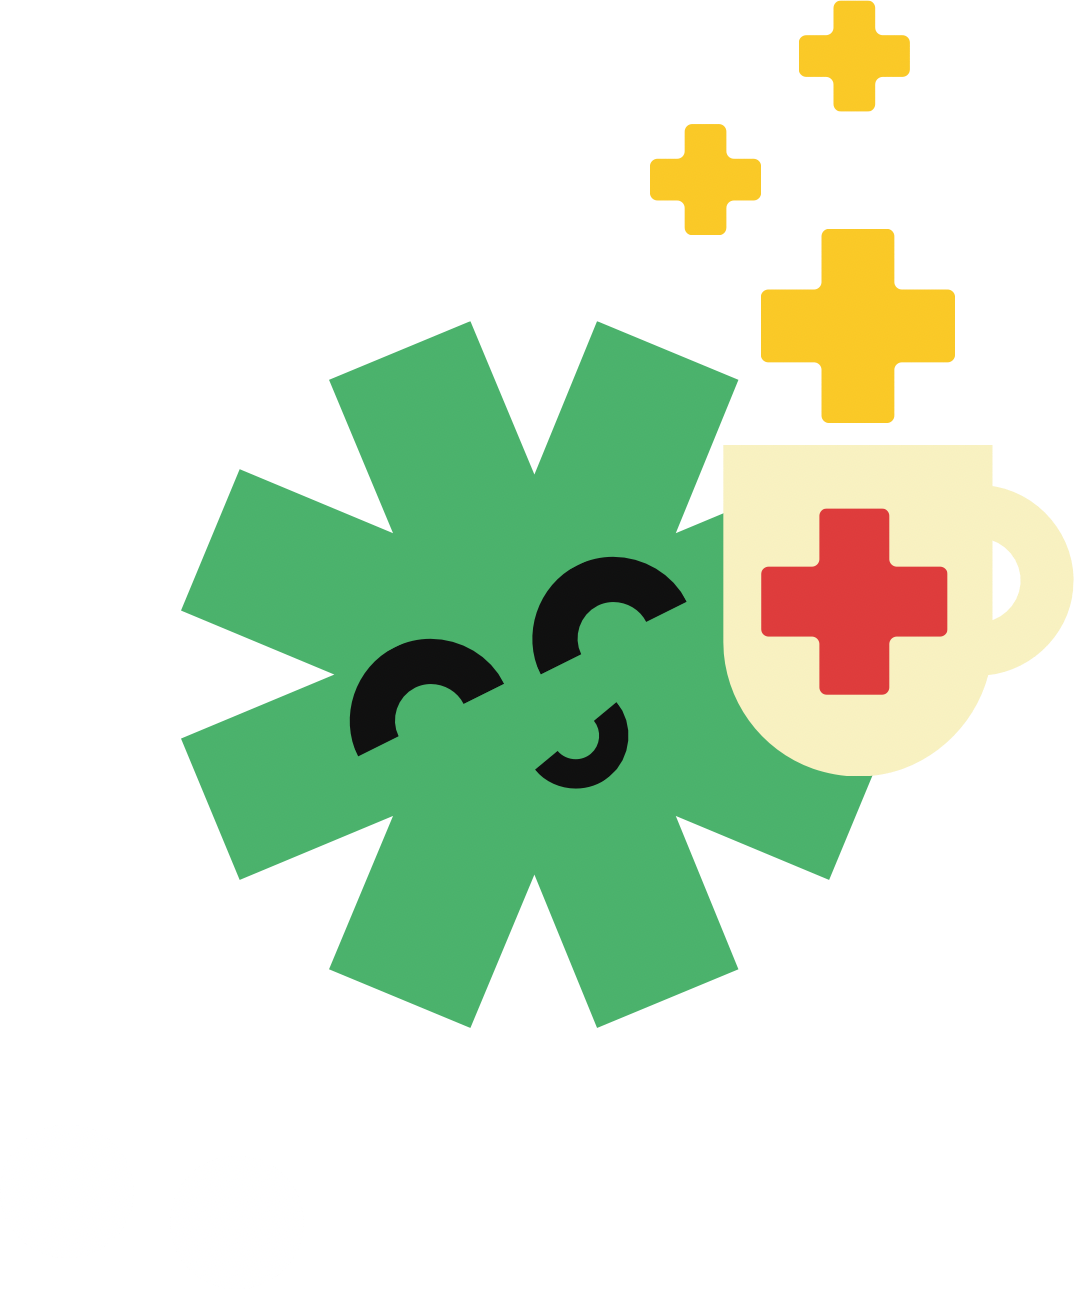
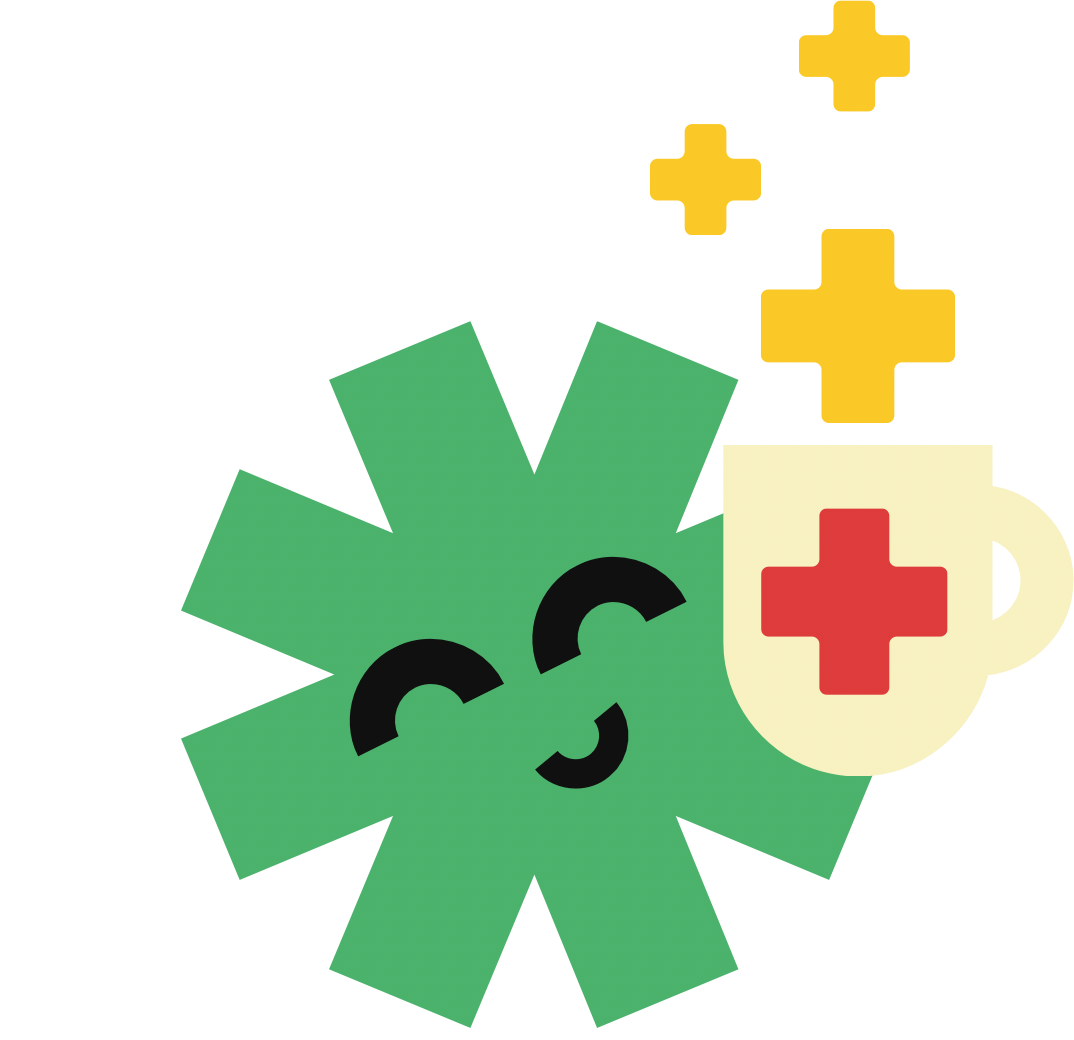
Scale up characters, roomy margins, characters below checklist on mobile, crop asterisk tea image, remove briefcase from diagnosis

Changed region(s): [[0.1536, 0.1538, 1.0, 0.9846], [0.5838, 0.0923, 0.7067, 0.2462], [0.7374, 0.0308, 0.8603, 0.1231]]

diff --git a/docs/index.html b/docs/index.html
@@ -53,7 +53,7 @@ a{ color:inherit; }
 .wrap{
   max-width: 1180px;
   margin: 0 auto;
-  padding: 0 32px;
+  padding: 0 60px;
 }
 
 .eyebrow{
@@ -302,14 +302,14 @@ h1,h2,h3{
   flex-direction: column;
   align-items: center;
   width: 50%;
-  height: 300px; /* explicit height = baseline anchor */
+  height: 420px;
   flex-shrink: 0;
 }
 
 /* Individual mascot images within each character slot */
 .char-img{
   width: 100%;
-  max-width: 180px;
+  max-width: 240px;
   position: absolute;
   bottom: 0;
   left: 50%;
@@ -493,10 +493,8 @@ h1,h2,h3{
   overflow:hidden;
 }
 .diagnosis-grid{
-  display:grid;
-  grid-template-columns: 0.9fr 1.1fr;
-  gap: 60px;
-  align-items:center;
+  display:block;
+  max-width: 760px;
 }
 .diagnosis .eyebrow{ color: var(--sunshine); margin-bottom:16px; display:block; }
 .diagnosis h2{
@@ -849,13 +847,13 @@ h1,h2,h3{
 @media (max-width: 920px){
   .hero-grid{ grid-template-columns:1fr; }
   .hero-figure{
-    order: -1;
+    order: 2; /* characters BELOW checklist on mobile */
     padding-top: 0;
     flex-direction: column;
     align-items: stretch;
     gap: 16px;
   }
-  /* Characters on top, card below */
+  /* Characters first within figure, card below */
   .duo-stage{ order: 1; }
   .hero-symptom-card{
     order: 2;
@@ -884,7 +882,7 @@ h1,h2,h3{
 }
 @media (max-width: 600px){
   .symptom-grid{ grid-template-columns:1fr; }
-  .wrap{ padding: 0 20px; }
+  .wrap{ padding: 0 24px; }
   .hero{ padding-top:56px; }
 }
 </style>
@@ -1034,9 +1032,6 @@ h1,h2,h3{
 <section class="diagnosis" id="about">
   <div class="wrap">
     <div class="diagnosis-grid">
-      <div class="diagnosis-figure" data-reveal>
-        <img src="mascot briefcase proud.png" alt="Urban Echo mascot looking proud with briefcase">
-      </div>
       <div class="diagnosis-copy" data-reveal>
         <span class="eyebrow">The Diagnosis</span>
         <h2>You need Urban Echo to help you reduce your workload and ensure your school sounds its best.</h2>